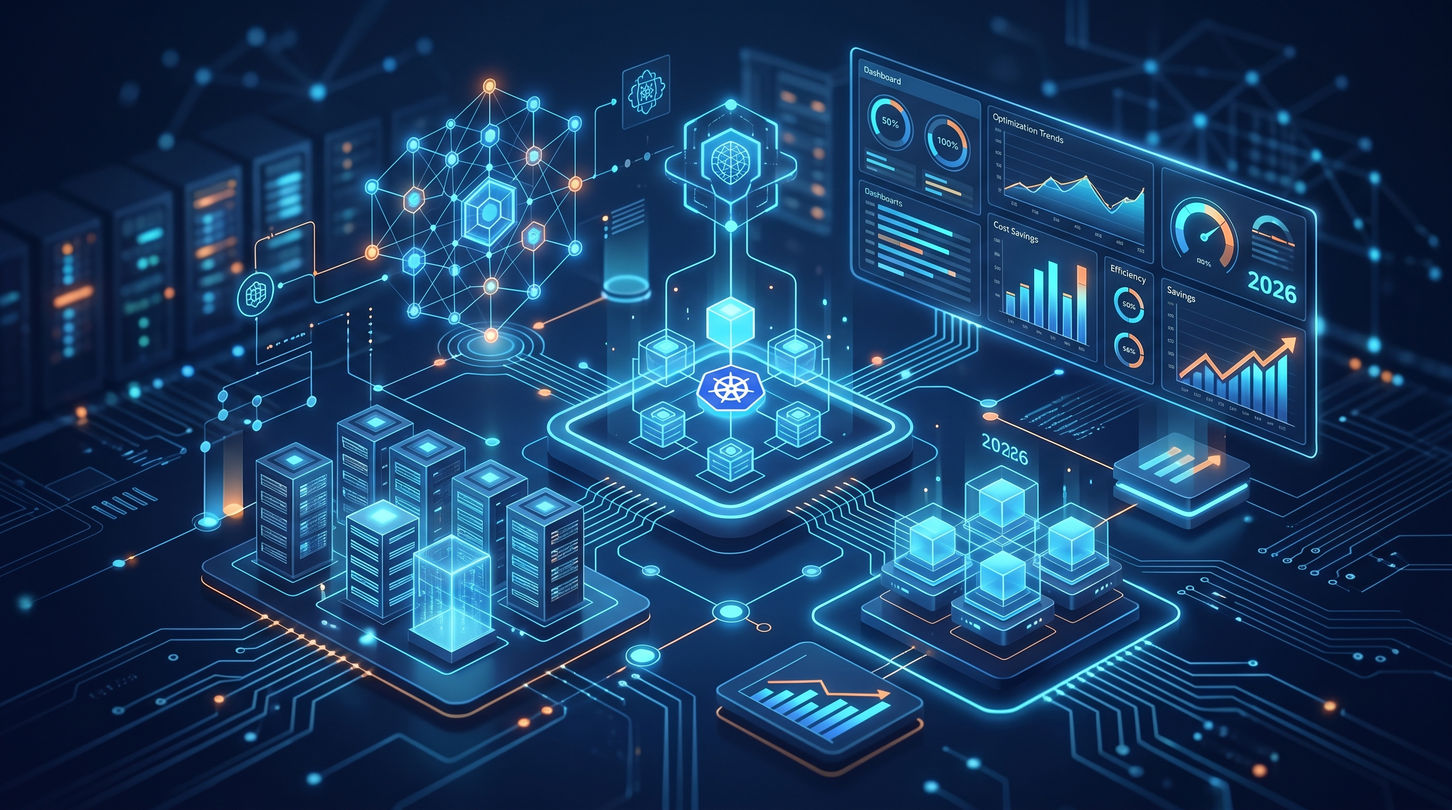
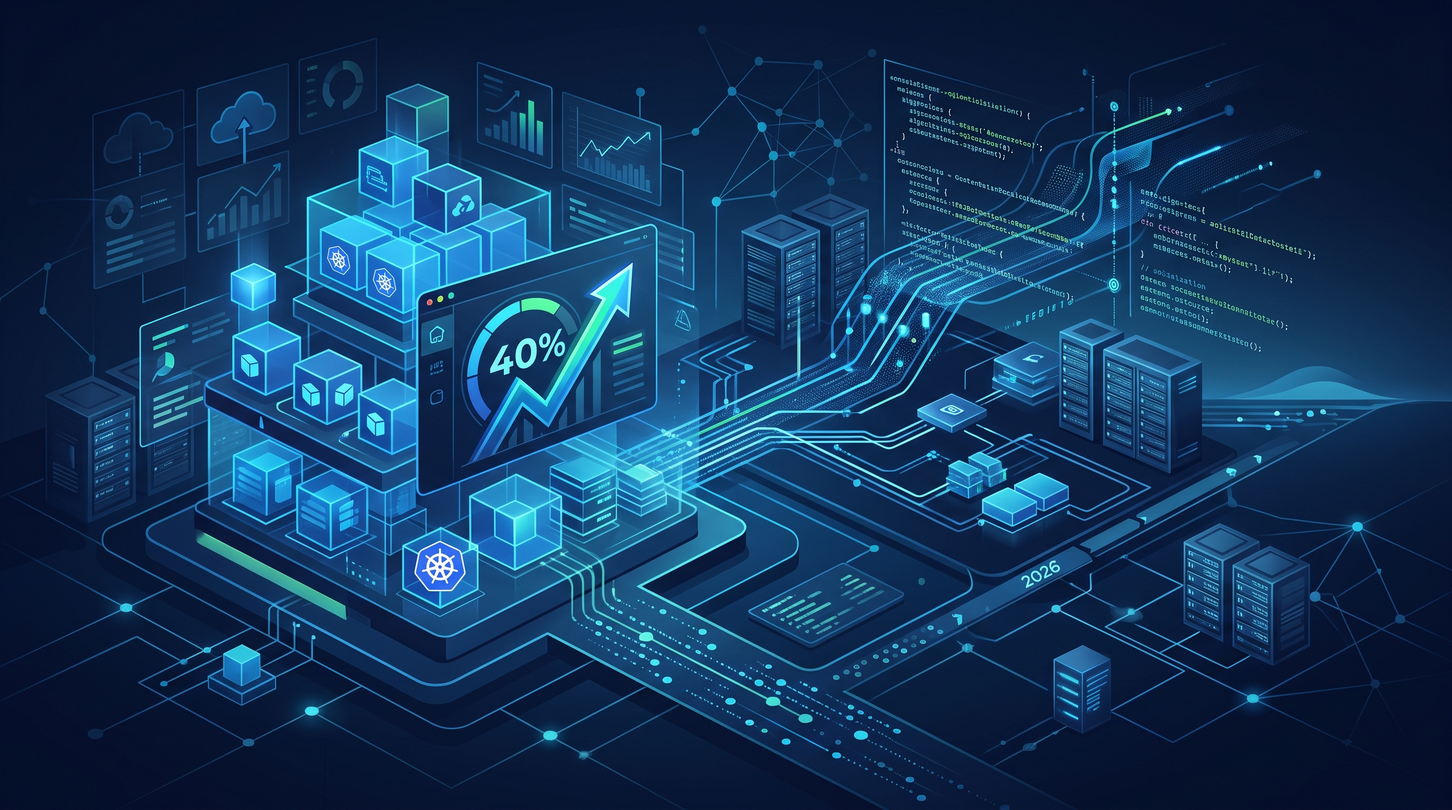
blog: Cutting Kubernetes Costs 40%: The 2026 Enterprise Playbook

diff --git a/docs/blog/posts/kubernetes-cost-optimization-enterprise-2026.html b/docs/blog/posts/kubernetes-cost-optimization-enterprise-2026.html
@@ -3,9 +3,9 @@
 <head>
     <meta charset="UTF-8">
     <meta name="viewport" content="width=device-width, initial-scale=1.0">
-    <meta name="title" content="Kubernetes Cost Optimization Enterprise 2026 | Gheware DevOps AI">
-    <meta name="description" content="Stop bleeding money on Kubernetes. Learn concrete strategies for enterprise cost optimization in 2026, including spot instance management and AI-driven autoscaling.">
-    <meta name="keywords" content="kubernetes cost optimization enterprise 2026, kubernetes cost reduction, cloud spend management, kubernetes rightsizing, spot instances, autoscaling, devops best practices, enterprise kubernetes">
+    <meta name="title" content="Cutting Kubernetes Costs 40%: The 2026 Enterprise Playbook | Gheware DevOps AI">
+    <meta name="description" content="Learn how to achieve kubernetes cost optimization enterprise 2026 goals. Practical steps for spot instances, right-sizing, and eliminating zombie workloads.">
+    <meta name="keywords" content="kubernetes cost optimization enterprise 2026, kubernetes cost reduction, cloud cost management, spot instances, right-sizing, idle resource cleanup, enterprise devops, infrastructure efficiency">
     <meta name="author" content="Rajesh Gheware">
     <meta name="robots" content="index, follow, max-snippet:-1, max-image-preview:large">
     <link rel="canonical" href="https://devops.gheware.com/blog/posts/kubernetes-cost-optimization-enterprise-2026.html">
@@ -13,37 +13,37 @@
     <link rel="stylesheet" href="/css/premium.css">
     <meta property="og:type" content="article">
     <meta property="og:url" content="https://devops.gheware.com/blog/posts/kubernetes-cost-optimization-enterprise-2026.html">
-    <meta property="og:title" content="Kubernetes Cost Optimization Enterprise 2026">
-    <meta property="og:description" content="Stop bleeding money on Kubernetes. Learn concrete strategies for enterprise cost optimization in 2026, including spot instance management and AI-driven autoscaling.">
+    <meta property="og:title" content="Cutting Kubernetes Costs 40%: The 2026 Enterprise Playbook">
+    <meta property="og:description" content="Learn how to achieve kubernetes cost optimization enterprise 2026 goals. Practical steps for spot instances, right-sizing, and eliminating zombie workloads.">
     <meta property="og:image" content="https://devops.gheware.com/blog/assets/images/kubernetes-cost-optimization-enterprise-2026-thumbnail.jpeg">
     <meta property="og:site_name" content="Gheware DevOps AI">
-    <meta property="article:published_time" content="2026-06-23T09:00:00+05:30">
+    <meta property="article:published_time" content="2026-07-03T09:00:00+05:30">
     <meta property="article:author" content="Rajesh Gheware">
     <meta property="article:section" content="Kubernetes">
     <meta property="article:tag" content="kubernetes cost optimization enterprise 2026">
     <meta property="article:tag" content="kubernetes cost reduction">
-    <meta property="article:tag" content="cloud spend management">
+    <meta property="article:tag" content="cloud cost management">
     <meta name="twitter:card" content="summary_large_image">
-    <meta name="twitter:title" content="Kubernetes Cost Optimization Enterprise 2026">
-    <meta name="twitter:description" content="Stop bleeding money on Kubernetes. Learn concrete strategies for enterprise cost optimization in 2026, including spot instance management and AI-driven autoscaling.">
+    <meta name="twitter:title" content="Cutting Kubernetes Costs 40%: The 2026 Enterprise Playbook">
+    <meta name="twitter:description" content="Learn how to achieve kubernetes cost optimization enterprise 2026 goals. Practical steps for spot instances, right-sizing, and eliminating zombie workloads.">
     <meta name="twitter:image" content="https://devops.gheware.com/blog/assets/images/kubernetes-cost-optimization-enterprise-2026-thumbnail.jpeg">
-    <title>Kubernetes Cost Optimization Enterprise 2026</title>
+    <title>Cutting Kubernetes Costs 40%: The 2026 Enterprise Playbook</title>
     <script type="application/ld+json">
     {
         "@context": "https://schema.org",
         "@type": "BlogPosting",
         "mainEntityOfPage": { "@type": "WebPage", "@id": "https://devops.gheware.com/blog/posts/kubernetes-cost-optimization-enterprise-2026.html" },
-        "headline": "Kubernetes Cost Optimization Enterprise 2026",
-        "description": "Stop bleeding money on Kubernetes. Learn concrete strategies for enterprise cost optimization in 2026, including spot instance management and AI-driven autoscaling.",
+        "headline": "Cutting Kubernetes Costs 40%: The 2026 Enterprise Playbook",
+        "description": "Learn how to achieve kubernetes cost optimization enterprise 2026 goals. Practical steps for spot instances, right-sizing, and eliminating zombie workloads.",
         "image": { "@type": "ImageObject", "url": "https://devops.gheware.com/blog/assets/images/kubernetes-cost-optimization-enterprise-2026-thumbnail.jpeg", "width": 1200, "height": 630 },
-        "datePublished": "2026-06-23T09:00:00+05:30",
-        "dateModified": "2026-06-23T09:00:00+05:30",
+        "datePublished": "2026-07-03T09:00:00+05:30",
+        "dateModified": "2026-07-03T09:00:00+05:30",
         "author": { "@type": "Person", "name": "Rajesh Gheware", "url": "https://linkedin.com/in/rajesh-gheware" },
         "publisher": { "@type": "Organization", "name": "Gheware DevOps AI", "url": "https://devops.gheware.com",
             "logo": { "@type": "ImageObject", "url": "https://devops.gheware.com/favicon.svg" } },
-        "keywords": "kubernetes cost optimization enterprise 2026, kubernetes cost reduction, cloud spend management, kubernetes rightsizing, spot instances, autoscaling, devops best practices, enterprise kubernetes",
+        "keywords": "kubernetes cost optimization enterprise 2026, kubernetes cost reduction, cloud cost management, spot instances, right-sizing, idle resource cleanup, enterprise devops, infrastructure efficiency",
         "articleSection": "Kubernetes",
-        "wordCount": "990",
+        "wordCount": "959",
         "inLanguage": "en-US"
     }
     </script>
@@ -54,7 +54,7 @@
     <nav class="breadcrumb-nav" aria-label="Breadcrumb"><div class="container"><ol class="breadcrumb">
         <li><a href="/">Home</a></li>
         <li><a href="/blog/">Blog</a></li>
-        <li>Kubernetes Cost Optimization Enterprise 2026</li>
+        <li>Cutting Kubernetes Costs 40%: The 2026 Enterprise Playbook</li>
     </ol></div></nav>
     <article class="blog-post" itemscope itemtype="https://schema.org/BlogPosting">
         <meta itemprop="mainEntityOfPage" content="https://devops.gheware.com/blog/posts/kubernetes-cost-optimization-enterprise-2026.html">
@@ -64,108 +64,120 @@
                     <span class="post-category" itemprop="articleSection">Kubernetes</span>
                     <span class="reading-time">5 min read</span>
                 </div>
-                <h1 class="post-title" itemprop="headline">Kubernetes Cost Optimization Enterprise 2026</h1>
-                <p class="post-subtitle" itemprop="description">A practitioner’s guide to cutting cloud spend by 40% through rightsizing, spot instances, and agentic AI observability.</p>
+                <h1 class="post-title" itemprop="headline">Cutting Kubernetes Costs 40%: The 2026 Enterprise Playbook</h1>
+                <p class="post-subtitle" itemprop="description">Senior engineers share concrete strategies to slash cloud spend by 40% while maintaining high availability in 2026.</p>
                 <div class="post-meta">
                     <div class="author-mini" itemprop="author" itemscope itemtype="https://schema.org/Person">
                         <img src="/images/rajesh.png" alt="Rajesh Gheware" class="author-avatar-small">
                         <div class="author-meta-text">
                             <span class="author-name" itemprop="name">Rajesh Gheware</span>
-                            <time itemprop="datePublished" datetime="2026-06-23T09:00:00+05:30">June 23, 2026</time>
+                            <time itemprop="datePublished" datetime="2026-07-03T09:00:00+05:30">July 3, 2026</time>
                         </div>
                     </div>
                 </div>
             </header>
             <figure class="post-hero">
-                <img src="/blog/assets/images/kubernetes-cost-optimization-enterprise-2026-thumbnail.jpeg" alt="Kubernetes Cost Optimization Enterprise 2026" class="post-hero-image" itemprop="image"
+                <img src="/blog/assets/images/kubernetes-cost-optimization-enterprise-2026-thumbnail.jpeg" alt="Cutting Kubernetes Costs 40%: The 2026 Enterprise Playbook" class="post-hero-image" itemprop="image"
                      loading="eager" width="1200" height="630">
             </figure>
             <aside class="key-takeaways">
                 <h2>Key Takeaways</h2>
                 <ul>
-                    <li>Right-sizing is the lowest-hanging fruit for immediate savings.</li>
-                    <li>Spot instances can reduce compute costs by up to 70% if managed correctly.</li>
-                    <li>Agentic AI tools are essential for continuous, real-time cost monitoring.</li>
-                    <li>Multi-cluster strategies require careful resource pooling to avoid waste.</li>
-                    <li>Reliability must never be compromised for cost savings.</li>
+                    <li>Implement mandatory resource requests and limits to prevent noisy neighbor issues and ensure accurate billing attribution.</li>
+                    <li>Leverage spot instances for stateless workloads to reduce compute costs by up to 70% without sacrificing reliability.</li>
+                    <li>Automate the termination of untagged or low-traffic namespaces to eliminate zombie resources and reduce waste.</li>
+                    <li>Integrate FinOps tools directly into CI/CD pipelines to catch cost anomalies before they reach production.</li>
+                    <li>Establish a feedback loop between platform engineering and development teams to enforce cost-aware coding practices.</li>
                 </ul>
             </aside>
             <nav class="table-of-contents" aria-label="Table of Contents">
                 <h2>Table of Contents</h2>
                 <ol>
-<li><a href="#section-1">The Reality of Enterprise Kubernetes Spend</a></li>
-<li><a href="#section-2">Right-Sizing: The Lowest-Hanging Fruit</a></li>
-<li><a href="#section-3">Embracing Spot Instances with Resilience</a></li>
-<li><a href="#section-4">Advanced Autoscaling and Resource Efficiency</a></li>
-<li><a href="#section-5">Monitoring and Governance</a></li>
-<li><a href="#section-6">Security and Cost Balance</a></li>
+<li><a href="#section-1">The New Normal: Why 2026 Demands Rigorous Cost Discipline</a></li>
+<li><a href="#section-2">Right-Sizing and Resource Governance</a></li>
+<li><a href="#section-3">Leveraging Spot Instances and Hybrid Clusters</a></li>
+<li><a href="#section-4">Eliminating Zombie Resources and Idle Workloads</a></li>
 <li><a href="#faq">Frequently Asked Questions</a></li>
+<li><a href="#section-6">What is the most effective tool for Kubernetes cost optimization in 2026?</a></li>
+<li><a href="#section-7">Can I reduce Kubernetes costs without impacting reliability?</a></li>
+<li><a href="#section-8">How do I handle cost optimization for AI and ML workloads?</a></li>
+<li><a href="#section-9">What are the first steps for an enterprise starting their cost optimization journey?</a></li>
                 </ol>
             </nav>
             <div class="post-content" itemprop="articleBody">
 <section id="section-1">
-<h2>The Reality of Enterprise Kubernetes Spend</h2>
-<p>I have spent 25 years in the trenches of enterprise finance, building systems for JPMorgan Chase, Deutsche Bank, and Morgan Stanley. In every major institution, I have seen the same pattern: Kubernetes adoption skyrockets, complexity follows, and then the bill arrives. By 2026, the era of "just throw money at the cloud" is dead. The new mandate is efficiency without fragility. Most enterprises are wasting between 30% and 50% of their Kubernetes budget due to poor visibility, static resource requests, and unmanaged idle workloads.</p>
-<p>This is not about buying cheaper servers. It is about architectural discipline. You need a strategy that integrates cost controls directly into your CI/CD pipelines and runtime environments. If you are still managing costs manually via spreadsheets or basic dashboards, you are already behind. The modern stack requires automated, policy-driven optimization.</p>
+<h2>The New Normal: Why 2026 Demands Rigorous Cost Discipline</h2>
+
+<p>After two and a half decades in enterprise banking infrastructure, I have watched Kubernetes evolve from a niche container orchestrator to the de facto standard for enterprise application delivery. However, as we move into 2026, the narrative has shifted. It is no longer just about agility or microservices; it is about the bottom line. Cloud bills for Kubernetes clusters have become a significant line item, often exceeding initial projections by 30-50% due to poor resource governance.</p>
+
+<p>At Gheware Technologies, we advise enterprise clients that achieving true <strong>kubernetes cost optimization enterprise 2026</strong> standards requires moving beyond reactive monitoring. You must implement proactive, policy-driven governance. The goal is not just to reduce spend, but to eliminate waste while maintaining the reliability that your stakeholders demand. We are seeing organizations that have successfully implemented these strategies cut their infrastructure costs by 40% without degrading performance. This is not magic; it is engineering discipline.</p>
 </section>
 <section id="section-2">
-<h2>Right-Sizing: The Lowest-Hanging Fruit</h2>
-<p>The most common mistake I see is teams setting `requests` and `limits` based on guesswork or default values. This leads to either over-provisioning (wasted money) or under-provisioning (throttled performance). In a large-scale deployment, even a 100MB overestimation per pod can add up to tens of thousands of dollars annually.</p>
-<p>Start by auditing your current workloads. Use tools like Kube-bench or custom Prometheus exporters to gather actual CPU and memory usage over a 30-day window. Then, apply the following rules:</p>
+<h2>Right-Sizing and Resource Governance</h2>
+
+<p>The most immediate win comes from enforcing strict resource requests and limits. In many legacy clusters, developers set these values to "whatever works," leading to massive over-provisioning. When you allocate 4 CPUs and 8GB of RAM for a container that actually uses 0.5 CPUs and 1GB, you are paying for idle capacity. I recommend implementing Vertical Pod Autoscaler (VPA) in recommendation mode for at least three months to gather baseline data before enforcing limits.</p>
+
+<p>Beyond static configuration, you must address the "noisy neighbor" problem. When one pod hogs resources, it impacts the performance of others, leading to retries and increased load. To combat this, implement the following governance steps:</p>
+
 <ul>
-<li><strong>Set Requests to 70-80% of average usage:</strong> This ensures you pay for what you use while maintaining a buffer for bursts.</li>
-<li><strong>Set Limits to 100-120% of peak usage:</strong> This prevents resource starvation while allowing for temporary spikes.</li>
-<li><strong>Review every quarter:</strong> Workloads change. What was right-sized in Q1 may be wasteful in Q4.</li>
+<li><strong>Enforce Minimum Resource Requests:</strong> Require all deployments to specify CPU and memory requests. Reject manifests that lack these fields in your admission controllers.</li>
+<li><strong>Implement Priority Classes:</strong> Define priority classes for critical production workloads versus low-priority batch jobs. This ensures that if resources are scarce, non-critical workloads are evicted first.</li>
+<li><strong>Audit Default Namespace Usage:</strong> Stop developers from deploying to the default namespace. Create dedicated namespaces for each team or service, tagged with cost center identifiers.</li>
 </ul>
-<p>Do not treat this as a one-time task. Integrate this into your <a href="/blog/posts/enterprise-agentic-ai-deployment-2026.html">enterprise agentic AI deployment</a> strategy. Agentic AI agents can now monitor these metrics and suggest adjustments automatically, reducing manual toil by 60-70%.</p>
+
+<p>This level of granularity is essential for accurate chargeback models. If you cannot attribute cost to a specific team or service, you cannot optimize it. This aligns closely with the principles discussed in our guide on <a href="/blog/posts/building-internal-developer-platforms-2026.html">Building Internal Developer Platforms 2026</a>, where platform teams act as the gatekeepers of efficiency.</p>
 </section>
 <section id="section-3">
-<h2>Embracing Spot Instances with Resilience</h2>
-<p>If you are running stateless workloads on on-demand instances, you are leaving money on the table. Spot instances typically offer a 60-70% discount compared to on-demand pricing. In 2026, the technical barrier to using spot instances has never been lower. However, reliability is paramount. You cannot afford downtime just because you saved money.</p>
-<p>The key is to design for failure. Use <a href="/blog/posts/self-healing-kubernetes-apps-guide-2026.html">self-healing Kubernetes apps</a> that can gracefully handle node termination. Implement the following:</p>
-<ol>
-<li><strong>Use Karpenter or Cluster Autoscaler:</strong> These tools can provision spot nodes dynamically based on workload requirements.</li>
-<li><strong>Implement Preemptible Node Handlers:</strong> Configure your applications to save state and shut down gracefully when a preemptible signal is received.</li>
-<li><strong>Mix On-Demand and Spot:</strong> Keep a small baseline of on-demand nodes for critical, latency-sensitive services, and use spot for batch processing, CI/CD runners, and non-critical microservices.</li>
-</ol>
-<p>This hybrid approach can reduce your total compute costs by up to 40% while maintaining 99.9% uptime. The trick is to test your failure modes rigorously. If your app cannot handle a sudden node loss, spot instances are not for you yet.</p>
+<h2>Leveraging Spot Instances and Hybrid Clusters</h2>
+
+<p>For stateless workloads, spot instances are the single most effective lever for cost reduction. In 2026, cloud providers have stabilized their spot markets, offering up to 70% discounts compared to on-demand pricing. However, reliability is paramount. You cannot simply spin up spot instances and hope for the best. You need a robust scheduling strategy.</p>
+
+<p>We recommend using a hybrid cluster approach. Maintain a baseline of on-demand instances for critical control plane components and stateful services. Then, layer spot instances for stateless workers, CI/CD runners, and batch processing jobs. Tools like Karpenter or Cluster Autoscaler can dynamically scale these spot pools based on demand, reclaiming capacity when on-demand is cheaper or stability is required.</p>
+
+<p>When implementing this, ensure your applications are resilient to preemption. Use pod disruption budgets and graceful shutdown hooks. If your application is not designed for fault tolerance, spot instances will introduce more instability than they save in cost. For complex stateful workloads, consider dedicated nodes with reserved instances to guarantee availability while still achieving some cost savings compared to on-demand pricing.</p>
 </section>
 <section id="section-4">
-<h2>Advanced Autoscaling and Resource Efficiency</h2>
-<p>Horizontal Pod Autoscaling (HPA) is standard, but Vertical Pod Autoscaling (VPA) and Cluster Autoscaling are where the real savings lie. VPA can adjust resource requests and limits based on actual usage, preventing the "over-provisioning trap."</p>
-<p>Consider a scenario where a microservice handles 100 requests per second during the day and 10 requests per second at night. With static provisioning, you pay for the peak all day long. With VPA and HPA, you scale down during low-traffic periods, potentially saving 50-60% on compute costs for that service.</p>
-<p>Furthermore, optimize your network costs. Egress fees are often overlooked. Use load balancers efficiently, cache responses, and compress data. In a multi-cluster environment, as discussed in our guide on <a href="/blog/posts/multi-cluster-gitops-kubernetes-2026.html">multi-cluster GitOps</a>, ensure that traffic is routed optimally to avoid cross-region data transfer costs.</p>
-</section>
-<section id="section-5">
-<h2>Monitoring and Governance</h2>
-<p>You cannot optimize what you do not measure. Implement a FinOps culture where cost visibility is shared across engineering, operations, and finance teams. Use tools like Kubecost or OpenCost to break down costs by namespace, team, or application.</p>
-<p>Set up alerts for unusual spending spikes. If a pod starts consuming 5x its expected resources, it could be a bug or a memory leak. Catching this early can save thousands of dollars in wasted compute. Integrate these alerts into your incident response workflow.</p>
-<p>Regularly review your cluster architecture. Are you running unnecessary namespaces? Are there orphaned PVCs? Are you paying for load balancers that are no longer in use? A simple cleanup can yield immediate savings.</p>
-</section>
-<section id="section-6">
-<h2>Security and Cost Balance</h2>
-<p>Cost optimization must not compromise security. As you implement <a href="/blog/posts/zero-trust-devops-implementation-guide-2026.html">zero-trust DevOps practices</a>, ensure that your security policies do not inadvertently increase resource consumption. For example, overly complex network policies can increase control plane overhead. Optimize your security controls for both performance and cost.</p>
-<p>Also, consider the cost of compliance. Automated compliance checks can reduce the manual effort required for audits, saving engineering time and reducing the risk of costly non-compliance penalties.</p>
+<h2>Eliminating Zombie Resources and Idle Workloads</h2>
+
+<p>Enterprise environments are prone to "zombie" resources: services that are no longer in use but continue to consume compute and storage. This often happens during rapid development cycles where teams spin up environments, forget to tear them down, or merge branches without cleaning up.</p>
+
+<p>To combat this, implement automated lifecycle policies. Scan your cluster weekly for:</p>
+
+<ol>
+<li><strong>Unhealthy Pods:</strong> Pods in CrashLoopBackOff for more than 24 hours.</li>
+<li><strong>Unused Services:</strong> Services with no traffic for 7+ days.</li>
+<li><strong>Orphaned Volumes:</strong> Persistent Volume Claims (PVCs) not attached to any pod.</li>
+</ol>
+
+<p>Automate the deletion of these resources or alert the owners for cleanup. This is particularly relevant when dealing with AI-driven workloads. As we discuss in our analysis of <a href="/blog/posts/rag-systems-kubernetes-deployment-2026.html">RAG Systems Kubernetes Deployment 2026</a>, the compute intensity of AI models can lead to rapid resource consumption if not strictly monitored. Idle GPU nodes, for example, can drain your budget in hours. Implementing strict timeouts for inference jobs ensures that you only pay for active compute.</p>
 </section>
 <section id="faq">
 <h2>Frequently Asked Questions</h2>
-<h3>How quickly can I see results from Kubernetes cost optimization?</h3>
-<p>Right-sizing and cleanup efforts can yield results within days. Spot instance implementation may take a few weeks to stabilize. Long-term optimizations, like autoscaling tuning, can take months to fully mature. Expect a 20-40% reduction in costs within the first quarter.</p>
-<h3>Is it safe to use spot instances for production workloads?</h3>
-<p>Yes, if your applications are designed for fault tolerance. Stateless microservices, batch jobs, and CI/CD pipelines are ideal candidates. For stateful or highly sensitive services, use on-demand instances or a hybrid approach.</p>
-<h3>What tools do you recommend for monitoring Kubernetes costs?</h3>
-<p>Kubecost and OpenCost are industry standards. They provide granular visibility into resource usage and cost allocation. Integrate these with your existing monitoring stack for a holistic view.</p>
-<h3>How do I prevent developers from over-provisioning resources?</h3>
-<p>Implement policy-as-code tools like OPA or Kyverno to enforce resource limits. Educate developers on the cost implications of their choices. Make cost visibility a key performance indicator for engineering teams.</p>
+</section>
+<section id="section-6">
+<h2>What is the most effective tool for Kubernetes cost optimization in 2026?</h2>
+<p>There is no single tool, but a combination of Kubernetes-native autoscalers (like Karpenter) and FinOps platforms (like Kubecost or OpenCost) provides the best visibility. The key is integrating these tools into your CI/CD pipeline to provide immediate feedback to developers.</p>
+</section>
+<section id="section-7">
+<h2>Can I reduce Kubernetes costs without impacting reliability?</h2>
+<p>Yes, but it requires careful planning. Use spot instances only for stateless, fault-tolerant workloads. For stateful services, use reserved instances or dedicated nodes. Always implement pod disruption budgets and graceful shutdown mechanisms to maintain stability during scaling events.</p>
+</section>
+<section id="section-8">
+<h2>How do I handle cost optimization for AI and ML workloads?</h2>
+<p>AI workloads are compute-intensive and often require specialized hardware. Implement strict job timeouts, use spot instances for training jobs, and ensure inference servers are right-sized. Monitor GPU utilization closely to avoid paying for idle hardware. See our insights on <a href="/blog/posts/agent-sprawl-agentic-command-center-enterprise-2026.html">Agent Sprawl and Agentic Command Centers</a> for managing complex AI deployments.</p>
+</section>
+<section id="section-9">
+<h2>What are the first steps for an enterprise starting their cost optimization journey?</h2>
+<p>Start by gaining visibility. Install a cost monitoring tool to understand your current spend. Then, enforce resource requests and limits across all namespaces. Finally, implement automated cleanup policies for idle resources. This gradual approach minimizes risk while delivering quick wins.</p>
 </section>
             </div>
             <div id="author-bio-placeholder"></div>
             <section class="related-articles">
                 <h2>Related Articles</h2>
                 <div class="related-grid">
-<div class="related-card"><a href="/blog/posts/aiops-kubernetes-observability-2026.html"><h3>Aiops Kubernetes Observability</h3></a></div>
-<div class="related-card"><a href="/blog/posts/kaito-kubernetes-ai-toolchain-operator-enterprise-2026.html"><h3>Kaito Kubernetes Ai Toolchain Operator Enterprise</h3></a></div>
-<div class="related-card"><a href="/blog/posts/debugging-ai-agents-production-sre-guide-2026.html"><h3>Debugging Ai Agents Production Sre Guide</h3></a></div>
+<div class="related-card"><a href="/blog/posts/claude-code-vs-cursor-deep-dive-2026.html"><h3>Claude Code Vs Cursor Deep Dive</h3></a></div>
+<div class="related-card"><a href="/blog/posts/self-healing-kubernetes-2026.html"><h3>Self Healing Kubernetes</h3></a></div>
+<div class="related-card"><a href="/blog/posts/prompt-injection-attacks-ai-agents-2026.html"><h3>Prompt Injection Attacks Ai Agents</h3></a></div>
                 </div>
             </section>
             <section class="post-cta">
